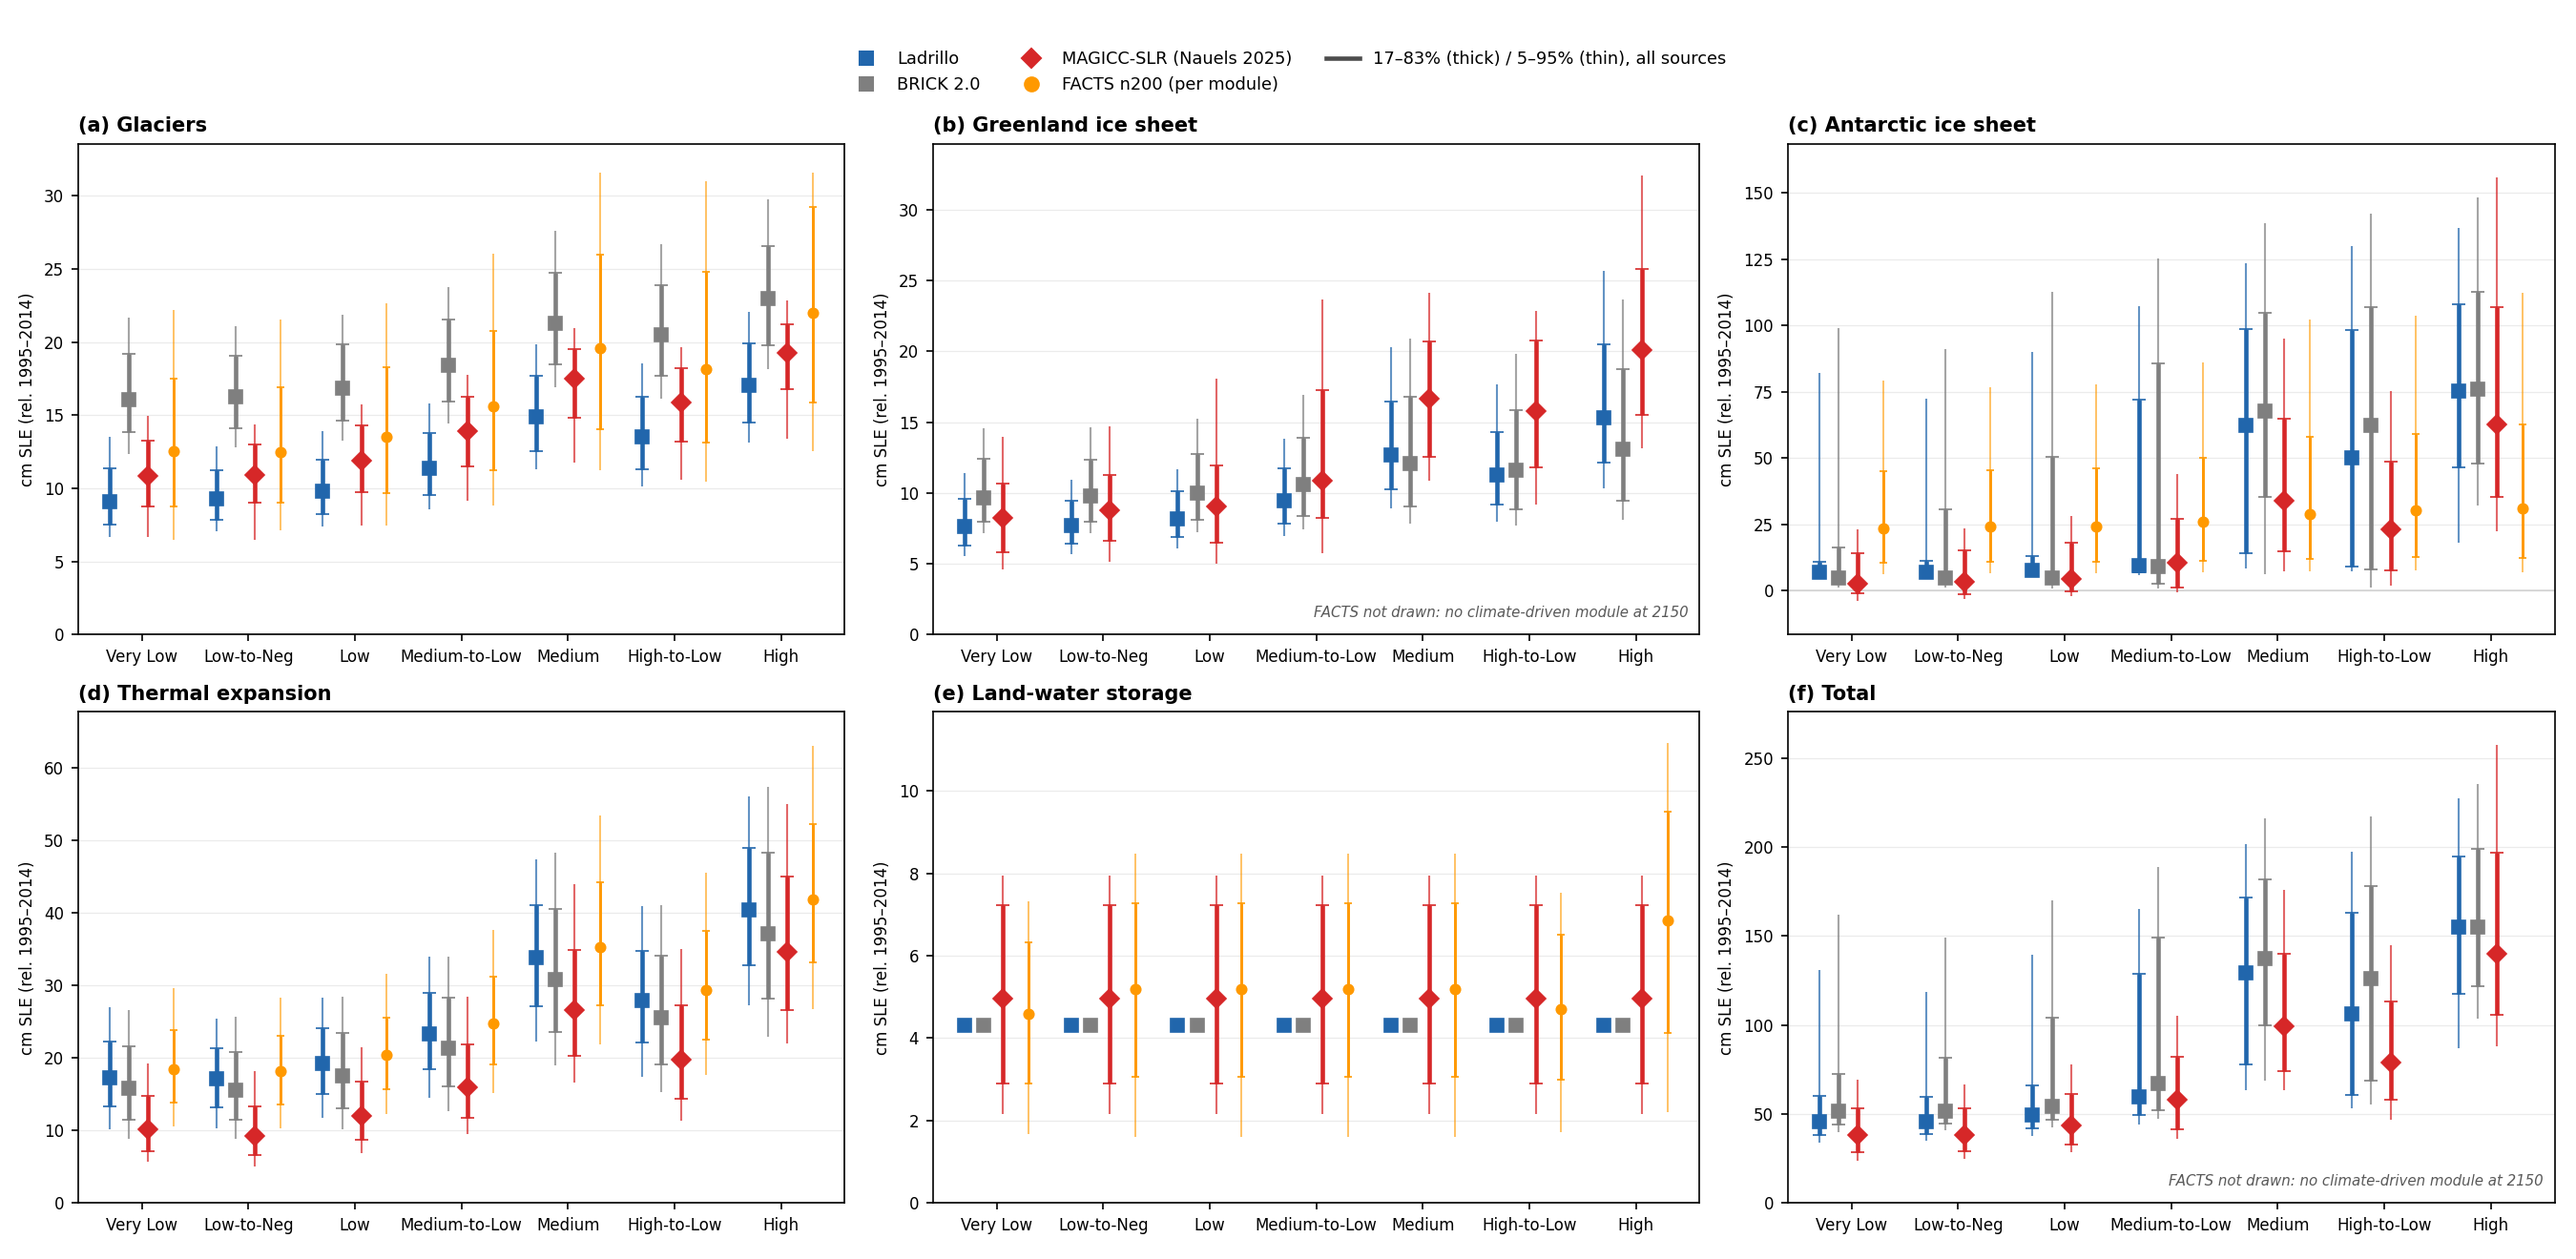
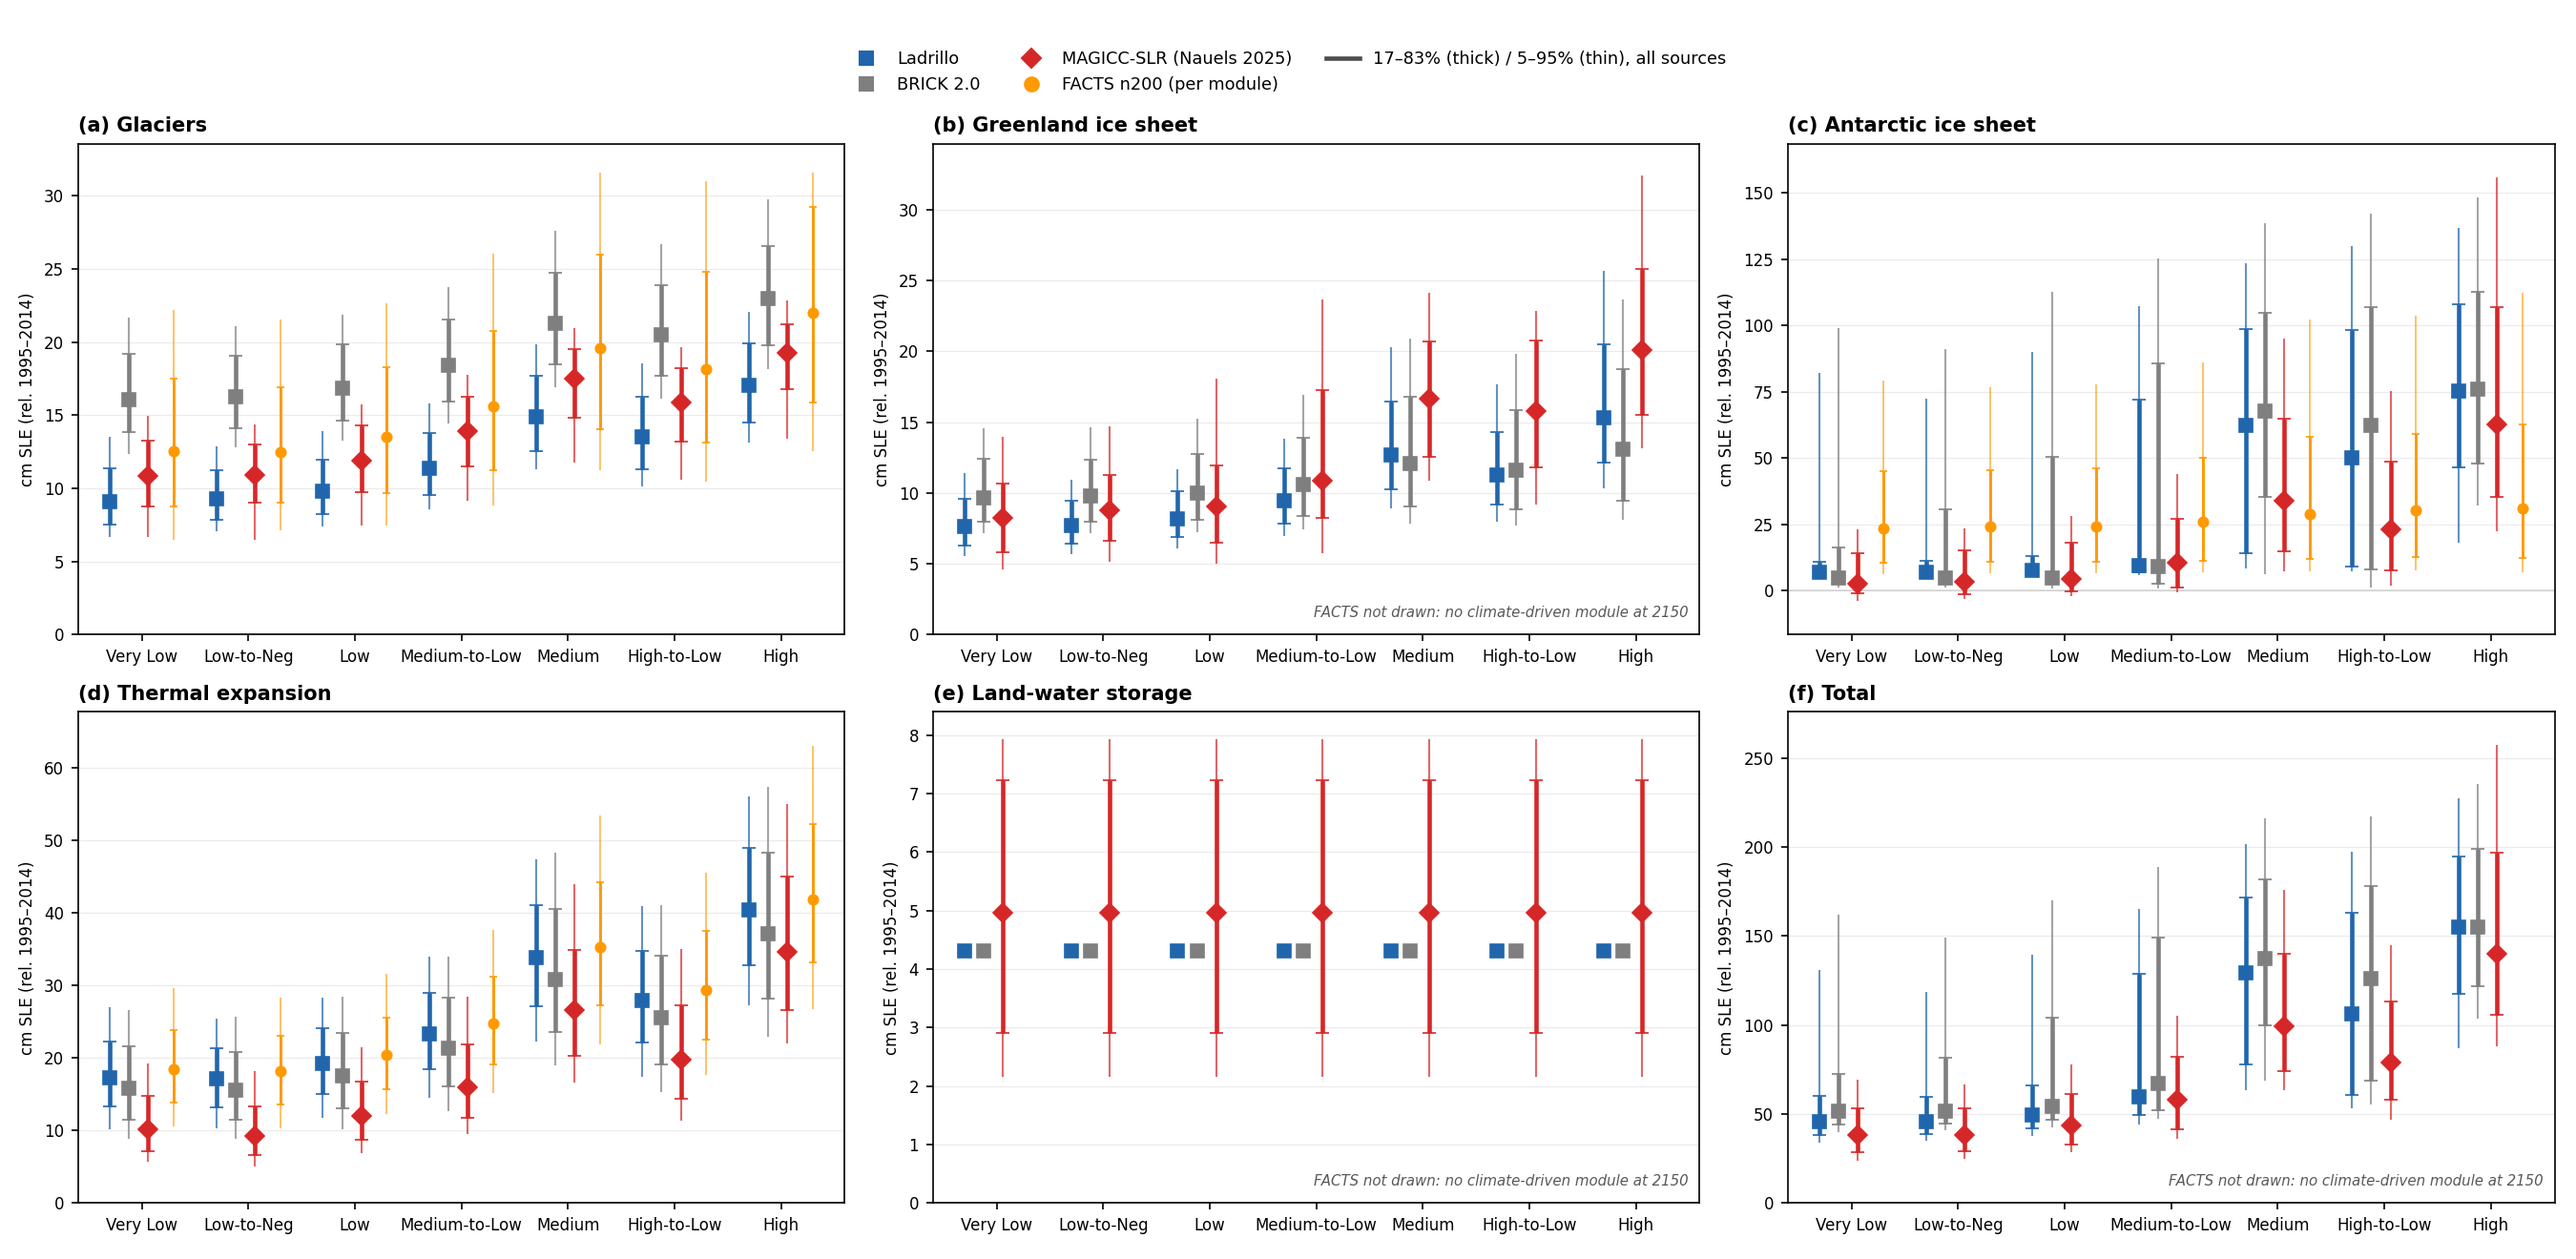
FACTS land-water storage dropped past 2100: it reads no climate (Marcus 11-12)
FACTS_CLIMATE_DRIVEN loses ssp-lws at 2150 and 2300. Control rebuild was byte
identical first; after, exactly 14 comparison rows and 2 responsiveness rows go.
Fig. 2 unchanged; Figs. 3, 6 and the 2150 sibling re-rendered.

diff --git a/python/ladrillo_figs.py b/python/ladrillo_figs.py
@@ -61,16 +61,20 @@ PROJ_BASELINE = "cm, rel. 1995-2014"         # every projection product
 ##                      ZERO-PADS beyond (RF at lag 200 is still at full strength, 8.6e-5 vs
 ##                      8.1e-5 at lag 50), so at 2300 every pre-2100 forcing year is dropped.
 ##                      Climate-driven at 2150 (only pre-1950 forcing lost); not at 2300.
-##   ar5glaciers, tlm, lws   climate-driven (glaciers cap at 31.57 cm); LWS is exempt by rule.
+##   ar5glaciers, tlm   climate-driven (glaciers cap at 31.57 cm).
+##   ssp-lws            reads NO climate: SSP population, held at its 2100 value (our configs map vvH to ssp3
+##                      and vvVL to ssp1). It was kept past 2100 as an exception to the rule until 2026-11-12,
+##                      when the code audit (memory facts_post2100_module_audit) showed its post-2100 H-VL
+##                      difference is a population difference; Marcus 11-12: drop it past 2100.
 ## RULE (Marcus): drop any module, and any TOTAL containing one, whose components are not
-## climate-driven at that horizon (LWS excepted). Every workflow total carries FittedISMIP, so
+## climate-driven at that horizon. Every workflow total carries FittedISMIP, so
 ## no FACTS total survives past 2100. Applied where the comparison TABLES are built, so the
 ## figures, the responsiveness figure and the benchmark's literature arm all inherit it; the
 ## raw extraction CSV keeps every module.
 FACTS_CLIMATE_DRIVEN = {
     2100: None,                                        # None = every module is genuine here
-    2150: {"larmip", "ar5glaciers", "tlm", "ssp-lws"},
-    2300: {"ar5glaciers", "tlm", "ssp-lws"},
+    2150: {"larmip", "ar5glaciers", "tlm"},
+    2300: {"ar5glaciers", "tlm"},
 }
 
 

diff --git a/CHANGELOG.md b/CHANGELOG.md
@@ -29,6 +29,24 @@ of raw chains. Projections read the thinned `data/MimiBRICK/parameters_subsample
   decompressed with `gunzip -k`. The default tag (L27) is unaffected.
 - The disk space comes back only when the Trash is emptied; until then the archives add 31 GB.
 
+## 2026-11-12d — FACTS land-water storage dropped past 2100 (Marcus); FACTS module audit
+
+A code audit of FACTS's post-2100 behaviour (subagent with file:line receipts, three points re-checked by hand; memory
+`facts_post2100_module_audit`) found that `ssp/landwaterstorage` reads no climate. It follows SSP population, held at
+its 2100 value, and our configs map vvH to ssp3 and vvVL to ssp1. It had been kept past 2100 as the one exception to
+the climate-driven rule (09-12). Marcus 11-12: "Drop FACTS land water post 2100 because it isn't climate driven."
+- `python/ladrillo_figs.py`: `FACTS_CLIMATE_DRIVEN` loses "ssp-lws" at 2150 and 2300; the rule comment no longer
+  calls land water climate-driven or exempt.
+- Control before the edit: `vv_model_comparison.py --tag=L27`, `plot_model_comparison_components.py --set=vv --paper`
+  and `plot_vv_responsiveness.py --paper` reproduced every committed file byte for byte (the responsiveness CSV
+  differs only in its provenance commit stamp).
+- After: `outputs/vv_model_comparison_L27.csv` loses exactly the 14 FACTS ssp-lws rows at 2150 and 2300 (560 → 546);
+  `outputs/vv_responsiveness_L27.csv` loses its two (80 → 78). Fig. 2 (2100) is byte-identical; Fig. 3, the 2150
+  sibling and Fig. 6 change, and the caption sidecars drop "ssp-lws". Ladrillo.jl's `figlib.py` changed the same way;
+  its FIGURES-IDENTITY gate passes 16/16 against these renders.
+- Other audit findings are text errors in the GMD draft (Sect. 4.2 attributes the AR5 time-prescribed dynamics term
+  to Bamber/DeConto; Table 1 note 5 misdescribes Bamber/DeConto/LARMIP); those go in round r1114.
+
 ## 2026-11-12c — GMD round r1113: Table A3 as run in calibration; two placeholder references completed
 
 Marcus 11-12: "Fix Table A3." His 08:26 save of r1112 (md5 1a266d2d) puts the as-run values in Sect. 2.2.3 (his
